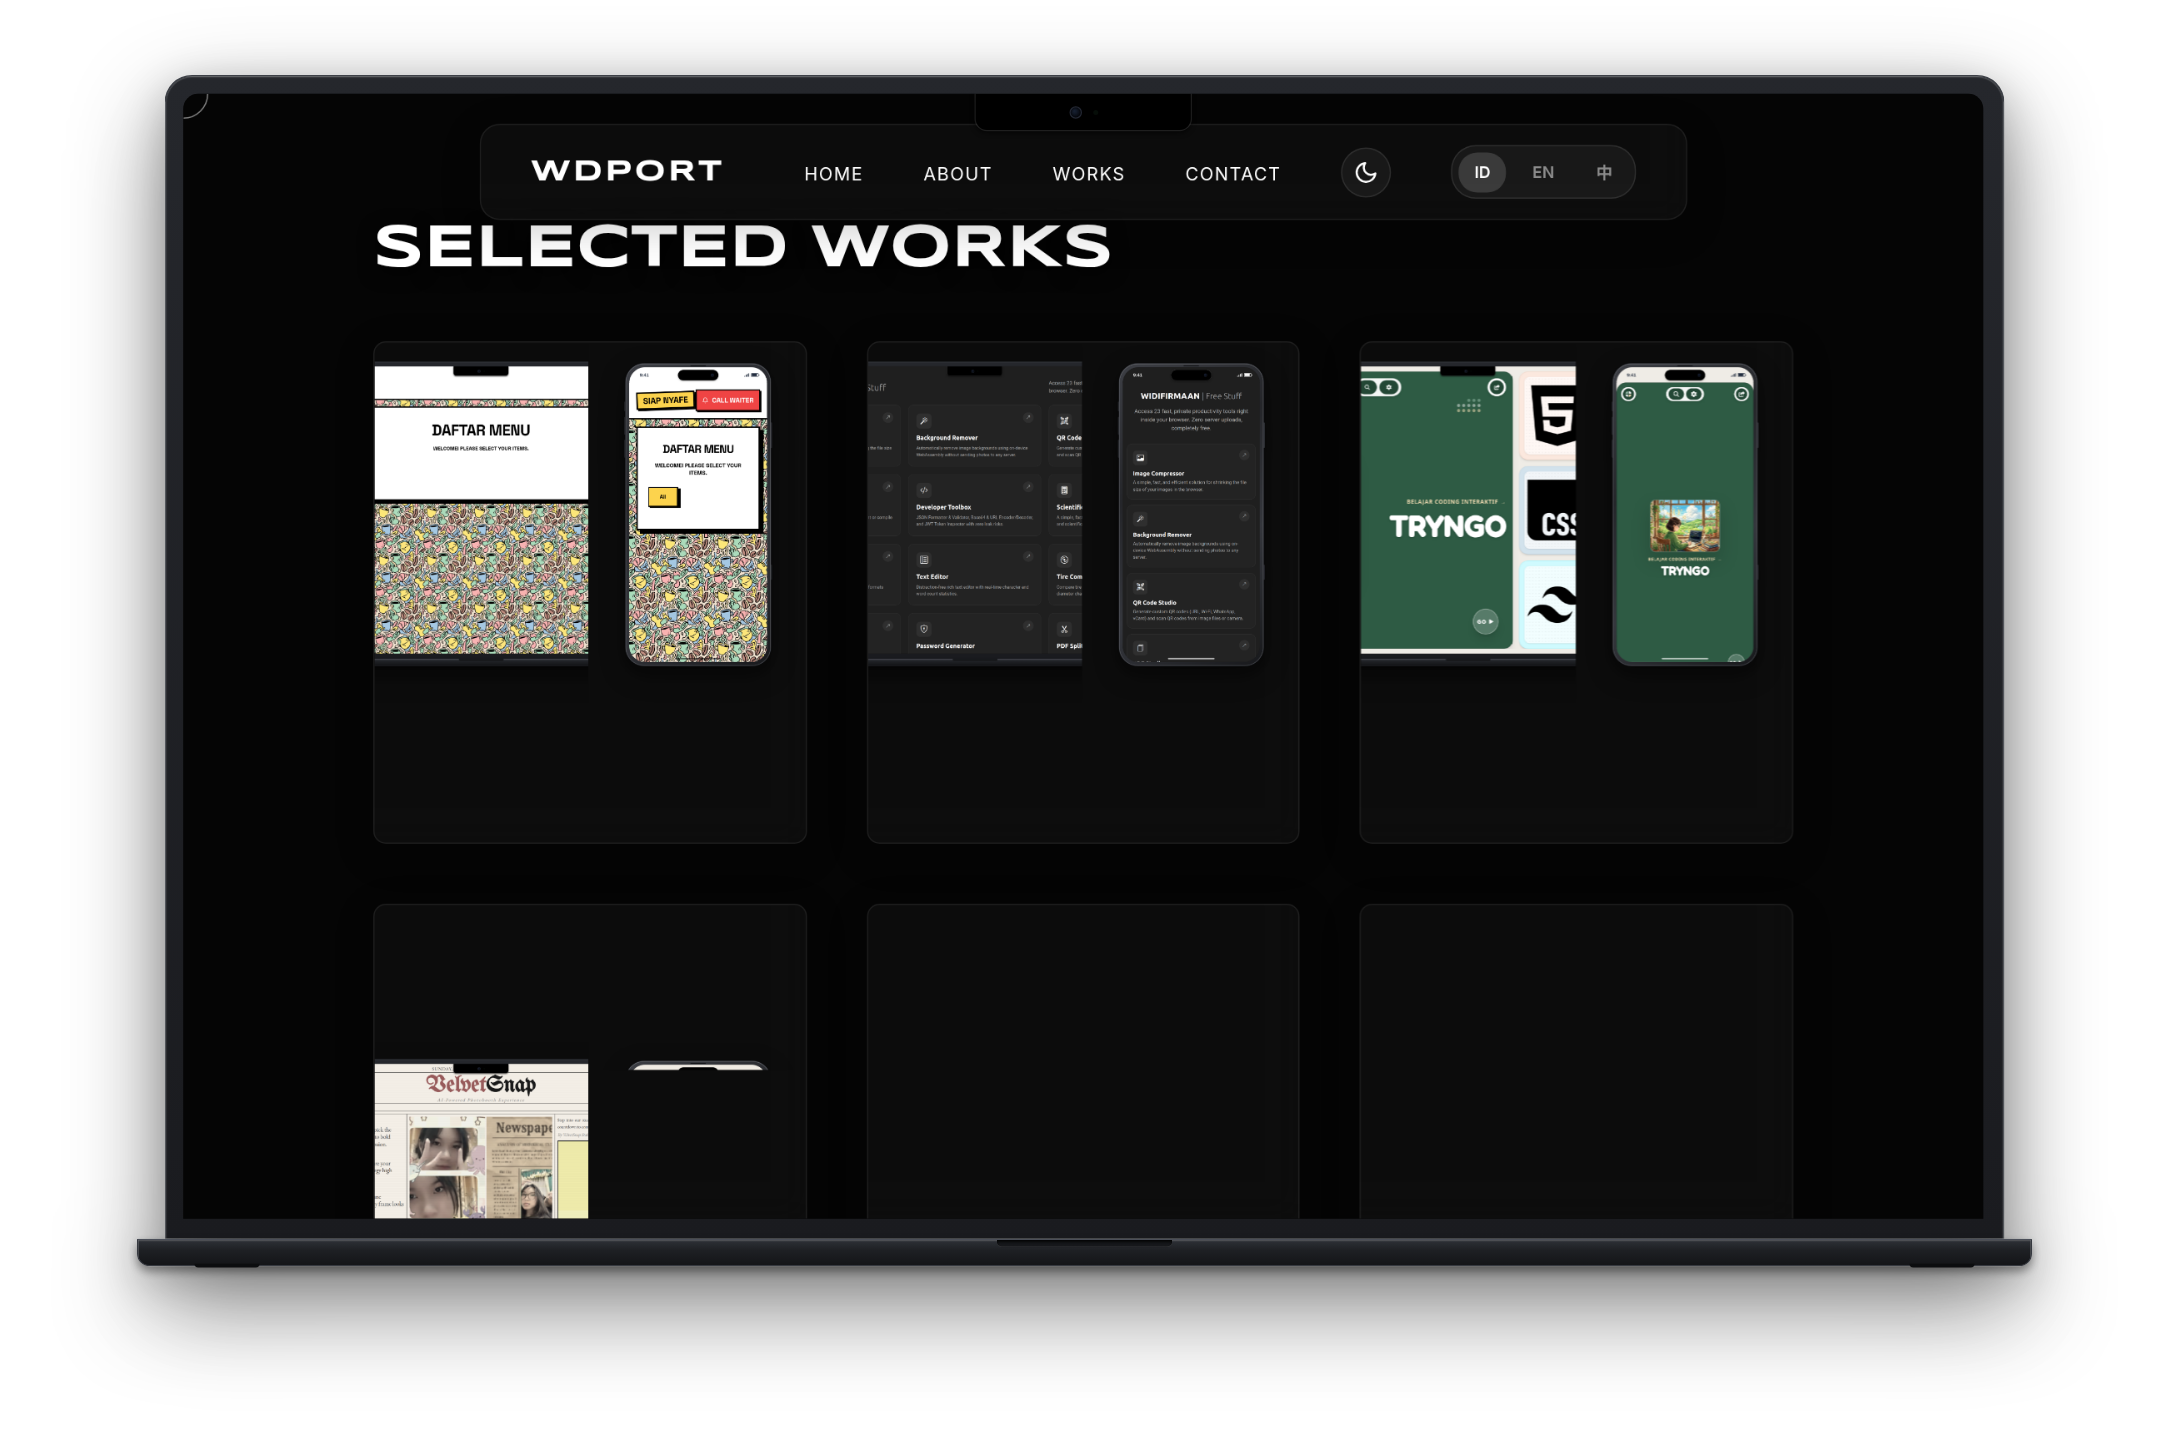
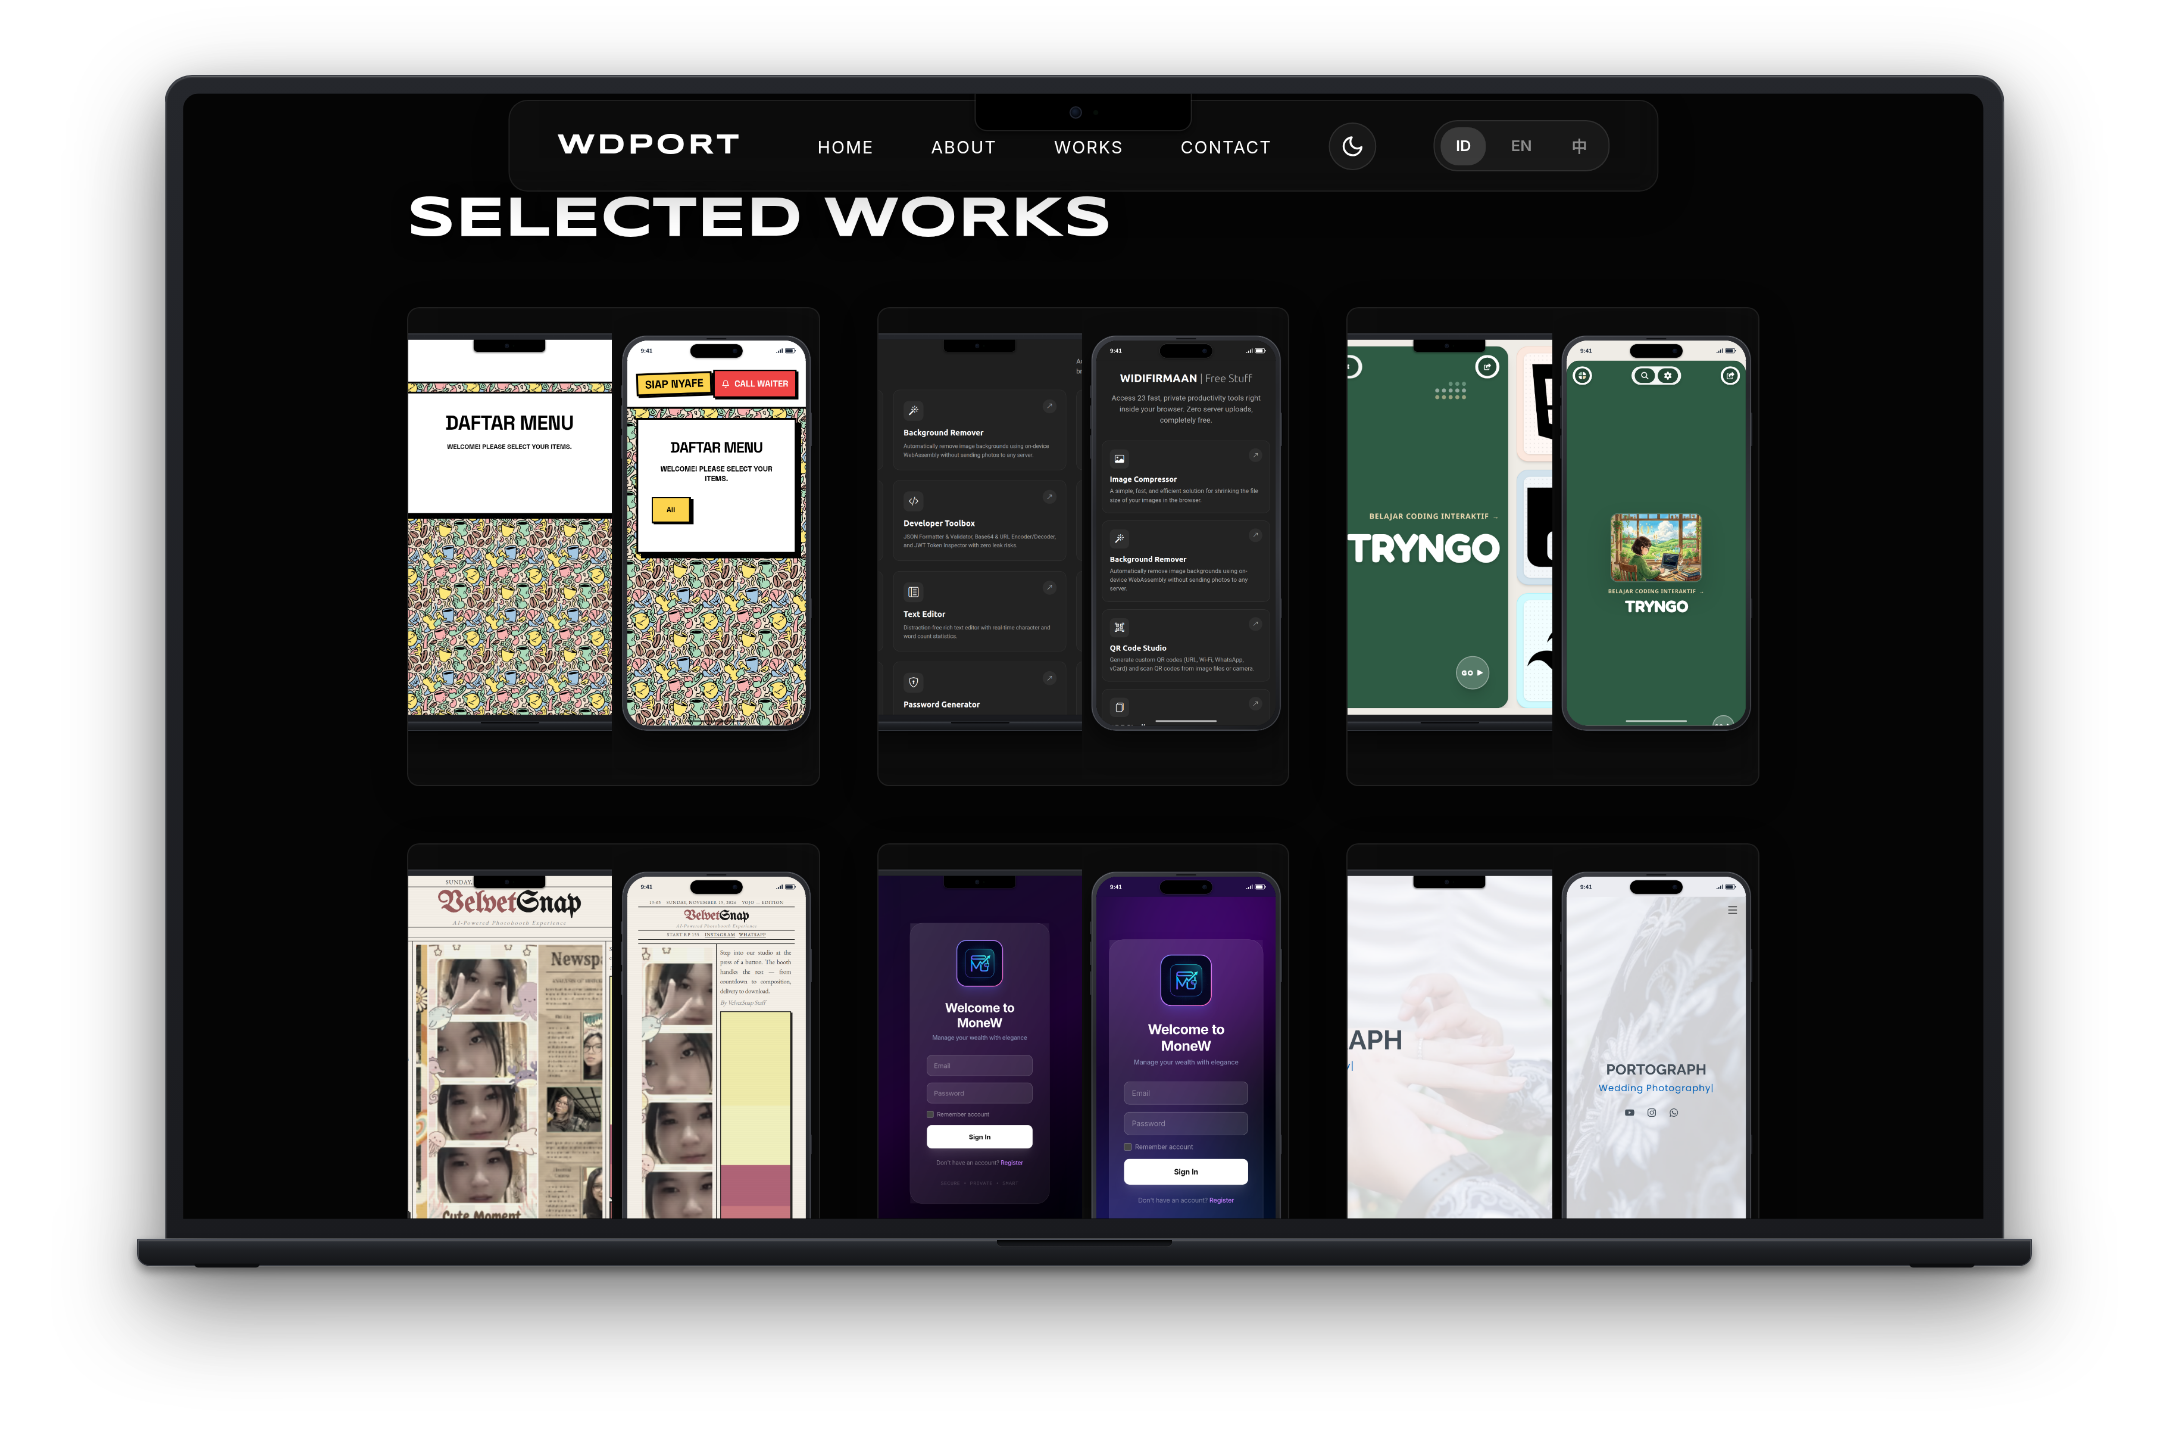
feat(projects): reduce card thumbnails from 4 to 2 images and update showcase mockups

diff --git a/script.js b/script.js
@@ -195,8 +195,8 @@ async function fetchGitHubProjects() {
             </div>
         `;
 
-        const gridClass = images.length > 1 ? `grid-${Math.min(images.length, 4)}` : '';
-        const imagesHtml = images.slice(0, 4).map(src => `<img src="${src}" alt="${title}" loading="lazy">`).join('');
+        const gridClass = images.length > 1 ? `grid-${Math.min(images.length, 2)}` : '';
+        const imagesHtml = images.slice(0, 2).map(src => `<img src="${src}" alt="${title}" loading="lazy">`).join('');
 
         card.innerHTML = `
             <div class="project-image ${gridClass}">
